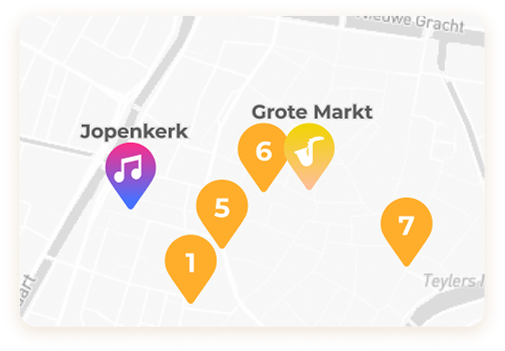
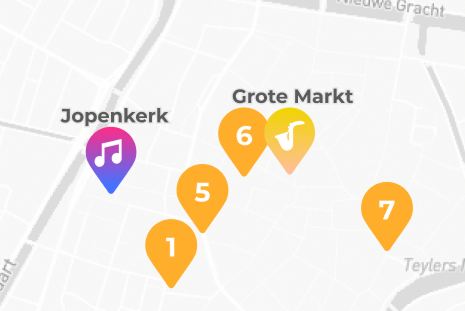
fixed layout home page and detailed

diff --git a/app/src/Views/pages/yummy_detail.php b/app/src/Views/pages/yummy_detail.php
@@ -17,21 +17,21 @@ declare(strict_types=1);
         href="https://fonts.googleapis.com/css2?family=Cormorant+Garamond:wght@500;600;700&family=Manrope:wght@400;500;600;700;800&display=swap"
         rel="stylesheet">
     <script>
-        tailwind = {
-            config: {
-                corePlugins: {
-                    preflight: false
-                },
-                theme: {
-                    extend: {
-                        fontFamily: {
-                            display: ['Cormorant Garamond', 'Times New Roman', 'serif'],
-                            body: ['Manrope', 'Segoe UI', 'sans-serif']
-                        }
+    tailwind = {
+        config: {
+            corePlugins: {
+                preflight: false
+            },
+            theme: {
+                extend: {
+                    fontFamily: {
+                        display: ['Cormorant Garamond', 'Times New Roman', 'serif'],
+                        body: ['Manrope', 'Segoe UI', 'sans-serif']
                     }
                 }
             }
-        };
+        }
+    };
     </script>
     <script src="https://cdn.tailwindcss.com"></script>
 </head>
@@ -54,70 +54,70 @@ declare(strict_types=1);
         </header>
 
         <?php if (!empty($vm->pageContent['gallery'])): ?>
-            <section class="grid grid-cols-1 md:grid-cols-3 gap-6 mb-20">
-                <?php foreach ($vm->pageContent['gallery'] as $image): ?>
-                    <div class="flex flex-col">
-                        <img src="<?= htmlspecialchars($image['src'] ?? '') ?>"
-                            alt="<?= htmlspecialchars($image['alt'] ?? '') ?>"
-                            class="w-full aspect-[4/3] object-cover rounded-3xl shadow-md">
-                        <p class="text-xs text-gray-400 text-center mt-3 px-4"><?= htmlspecialchars($image['caption'] ?? '') ?>
-                        </p>
-                    </div>
-                <?php endforeach; ?>
-            </section>
+        <section class="grid grid-cols-1 md:grid-cols-3 gap-6 mb-20">
+            <?php foreach ($vm->pageContent['gallery'] as $image): ?>
+            <div class="flex flex-col">
+                <img src="<?= htmlspecialchars($image['src'] ?? '') ?>"
+                    alt="<?= htmlspecialchars($image['alt'] ?? '') ?>"
+                    class="w-full aspect-[4/3] object-cover rounded-3xl shadow-md">
+                <p class="text-xs text-gray-400 text-center mt-3 px-4"><?= htmlspecialchars($image['caption'] ?? '') ?>
+                </p>
+            </div>
+            <?php endforeach; ?>
+        </section>
         <?php endif; ?>
 
         <?php if (!empty($vm->pageContent['aboutSection'])): ?>
-            <section
-                class="max-w-3xl mx-auto text-center mb-24 [&_h2]:text-2xl [&_h2]:font-bold [&_h2]:mb-4 [&_p]:text-gray-600">
-                <?= $vm->pageContent['aboutSection'] ?>
-            </section>
+        <section
+            class="max-w-3xl mx-auto text-center mb-24 [&_h2]:text-2xl [&_h2]:font-bold [&_h2]:mb-4 [&_p]:text-gray-600">
+            <?= $vm->pageContent['aboutSection'] ?>
+        </section>
         <?php endif; ?>
 
         <?php if (!empty($vm->pageContent['amuse_bouche']['html'])): ?>
-            <section class="grid md:grid-cols-2 gap-12 items-center mb-24">
-                <div
-                    class="max-w-md [&_h3]:text-3xl [&_h3]:font-bold [&_h3]:mb-6 [&_em]:italic [&_em]:font-medium [&_p]:text-gray-600 [&_p]:text-sm [&_p]:leading-relaxed">
-                    <?= $vm->pageContent['amuse_bouche']['html'] ?>
+        <section class="grid md:grid-cols-2 gap-12 items-center mb-24">
+            <div
+                class="max-w-md [&_h3]:text-3xl [&_h3]:font-bold [&_h3]:mb-6 [&_em]:italic [&_em]:font-medium [&_p]:text-gray-600 [&_p]:text-sm [&_p]:leading-relaxed">
+                <?= $vm->pageContent['amuse_bouche']['html'] ?>
+            </div>
+            <div class="w-full max-w-md mx-auto md:ml-auto">
+                <div class="flex gap-4 items-start">
+                    <img src="<?= htmlspecialchars((string)($vm->pageContent['amuse_bouche']['images'][0] ?? '')) ?>"
+                        class="w-1/2 aspect-[4/5] object-cover rounded-3xl shadow-lg mt-12">
+                    <img src="<?= htmlspecialchars((string)($vm->pageContent['amuse_bouche']['images'][1] ?? $vm->pageContent['amuse_bouche']['images'][0] ?? '')) ?>"
+                        class="w-1/2 aspect-[4/5] object-cover rounded-3xl shadow-lg mb-12">
                 </div>
-                <div class="w-full max-w-md mx-auto md:ml-auto">
-                    <div class="grid grid-cols-12 grid-rows-12 gap-0 w-full aspect-square">
-                        <img src="<?= htmlspecialchars((string)($vm->pageContent['amuse_bouche']['images'][1] ?? $vm->pageContent['amuse_bouche']['images'][0] ?? '')) ?>"
-                            class="col-start-5 col-end-13 row-start-1 row-end-9 w-full h-full object-cover rounded-[2rem] shadow-lg z-0">
-                        <img src="<?= htmlspecialchars((string)($vm->pageContent['amuse_bouche']['images'][0] ?? '')) ?>"
-                            class="col-start-1 col-end-9 row-start-5 row-end-13 w-full h-full object-cover rounded-[2rem] shadow-2xl border-8 border-white z-10">
-                    </div>
-                    <p class="text-xs text-gray-400 mt-4 text-right pr-6">
-                        <?= htmlspecialchars((string)($vm->pageContent['amuse_bouche']['caption'] ?? '')) ?></p>
-                </div>
-            </section>
+                <p class="text-xs text-gray-400 mt-6 text-right">
+                    <?= htmlspecialchars((string)($vm->pageContent['amuse_bouche']['caption'] ?? '')) ?></p>
+            </div>
+        </section>
         <?php endif; ?>
 
         <?php if (!empty($vm->pageContent['chef'])): ?>
-            <section class="grid md:grid-cols-2 gap-12 items-center mb-24">
-                <div class="flex flex-col items-center">
-                    <img src="<?= htmlspecialchars((string)($vm->pageContent['chef']['image'] ?? '')) ?>" alt="Chef"
-                        class="w-64 h-64 rounded-full object-cover shadow-xl mb-4">
-                    <p class="text-xs text-gray-400">Head chef</p>
-                </div>
-                <div
-                    class="max-w-md [&_h3]:text-3xl [&_h3]:font-bold [&_h3]:mb-6 [&_p]:text-gray-600 [&_p]:text-sm [&_p]:leading-relaxed">
-                    <?= $vm->pageContent['chef']['html'] ?>
-                </div>
-            </section>
+        <section class="grid md:grid-cols-2 gap-12 items-center mb-24">
+            <div class="flex flex-col items-center">
+                <img src="<?= htmlspecialchars((string)($vm->pageContent['chef']['image'] ?? '')) ?>" alt="Chef"
+                    class="w-64 h-64 rounded-full object-cover shadow-xl mb-4">
+                <p class="text-xs text-gray-400">Head chef</p>
+            </div>
+            <div
+                class="max-w-md [&_h3]:text-3xl [&_h3]:font-bold [&_h3]:mb-6 [&_p]:text-gray-600 [&_p]:text-sm [&_p]:leading-relaxed">
+                <?= $vm->pageContent['chef']['html'] ?>
+            </div>
+        </section>
         <?php endif; ?>
 
         <?php if (!empty($vm->pageContent['menu']['html'])): ?>
-            <section class="grid md:grid-cols-2 gap-12 items-center mb-24">
-                <div class="w-full max-w-md mx-auto md:mr-auto order-last md:order-first">
-                    <img src="<?= htmlspecialchars((string)($vm->pageContent['menu']['image'] ?? '')) ?>"
-                        class="w-full aspect-square object-cover rounded-[2rem] shadow-lg">
-                </div>
-                <div
-                    class="max-w-md [&_h3]:text-3xl [&_h3]:font-bold [&_h3]:mb-6 [&_p]:text-gray-600 [&_p]:text-sm [&_p]:leading-relaxed order-first md:order-last">
-                    <?= $vm->pageContent['menu']['html'] ?>
-                </div>
-            </section>
+        <section class="grid md:grid-cols-2 gap-12 items-center mb-24">
+            <div class="w-full max-w-md mx-auto md:mr-auto order-last md:order-first">
+                <img src="<?= htmlspecialchars((string)($vm->pageContent['menu']['image'] ?? '')) ?>"
+                    class="w-full aspect-square object-cover rounded-[2rem] shadow-lg">
+            </div>
+            <div
+                class="max-w-md [&_h3]:text-3xl [&_h3]:font-bold [&_h3]:mb-6 [&_p]:text-gray-600 [&_p]:text-sm [&_p]:leading-relaxed order-first md:order-last">
+                <?= $vm->pageContent['menu']['html'] ?>
+            </div>
+        </section>
         <?php endif; ?>
 
         <section class="bg-[#FDF3D8] rounded-[3rem] p-10 mt-12 shadow-sm relative">
@@ -166,14 +166,14 @@ declare(strict_types=1);
 
                                     $isActive = (int)$session['event_id'] === $vm->event->event_id;
                                 ?>
-                                    <a href="/yummy/restaurant?id=<?= $session['event_id'] ?>"
-                                        class="w-full p-3 rounded-xl text-left text-sm flex justify-between items-center no-underline transition-colors block
+                                <a href="/yummy/restaurant?id=<?= $session['event_id'] ?>"
+                                    class="w-full p-3 rounded-xl text-left text-sm flex justify-between items-center no-underline transition-colors block
                                        <?= $isActive ? 'bg-yellow-100 border-2 border-yellow-400 text-black font-semibold' : 'bg-white hover:bg-gray-50 text-gray-800' ?>">
-                                        <span><?= htmlspecialchars($time) ?></span>
-                                        <span
-                                            class="text-xs <?= $isActive ? 'text-black' : 'text-gray-400' ?>"><?= $session['capacity'] ?>
-                                            seats left</span>
-                                    </a>
+                                    <span><?= htmlspecialchars($time) ?></span>
+                                    <span
+                                        class="text-xs <?= $isActive ? 'text-black' : 'text-gray-400' ?>"><?= $session['capacity'] ?>
+                                        seats left</span>
+                                </a>
                                 <?php endforeach; ?>
                             </div>
                             <button type="submit"

diff --git a/app/src/Views/pages/yummy_home.php b/app/src/Views/pages/yummy_home.php
@@ -149,20 +149,24 @@ declare(strict_types=1);
                     </div>
 
                     <div class="ml-5 w-6/12 max-md:ml-0 max-md:w-full">
-                        <div class="flex flex-col w-full text-sm leading-none max-md:mt-10 max-md:max-w-full">
+                        <div class="flex flex-col w-full max-w-[400px] mx-auto text-sm leading-none max-md:mt-10">
                             <div
-                                class="flex relative flex-col items-end px-16 pt-72 pb-2 w-full text-black rounded-2xl shadow-sm min-h-80 overflow-hidden max-md:pt-24 max-md:pl-5 max-md:max-w-full">
+                                class="flex relative flex-col items-end w-full text-black rounded-2xl shadow-sm aspect-[4/3] overflow-hidden">
                                 <?php if ($vm->mapImage !== ''): ?>
                                     <img src="<?= htmlspecialchars($vm->mapImage) ?>"
                                         class="object-cover absolute inset-0 size-full"
                                         alt="Interactive map with event pinpoints">
                                 <?php endif; ?>
+
                                 <?php if ($vm->mapImageCaption !== ''): ?>
-                                    <p class="relative">
-                                        <?= htmlspecialchars($vm->mapImageCaption) ?>
-                                    </p>
+                                    <div class="absolute bottom-0 w-full p-3 bg-gradient-to-t from-black/50 to-transparent">
+                                        <p class="relative text-white font-medium text-right mb-0">
+                                            <?= htmlspecialchars($vm->mapImageCaption) ?>
+                                        </p>
+                                    </div>
                                 <?php endif; ?>
                             </div>
+
                             <div
                                 class="self-center mt-5 [&_a]:flex [&_a]:max-w-full [&_a]:items-center [&_a]:justify-center [&_a]:gap-0 [&_a]:rounded-2xl [&_a]:bg-amber-400 [&_a]:p-2.5 [&_a]:font-semibold [&_a]:text-white [&_a]:no-underline [&_a]:w-[131px] [&_.btn-primary]:flex [&_.btn-primary]:max-w-full [&_.btn-primary]:items-center [&_.btn-primary]:justify-center [&_.btn-primary]:gap-0 [&_.btn-primary]:rounded-2xl [&_.btn-primary]:bg-amber-400 [&_.btn-primary]:p-2.5 [&_.btn-primary]:font-semibold [&_.btn-primary]:text-white [&_.btn-primary]:no-underline [&_.btn-primary]:w-[131px]">
                                 <a href="/map" class="btn-primary">go to map &rarr;</a>
